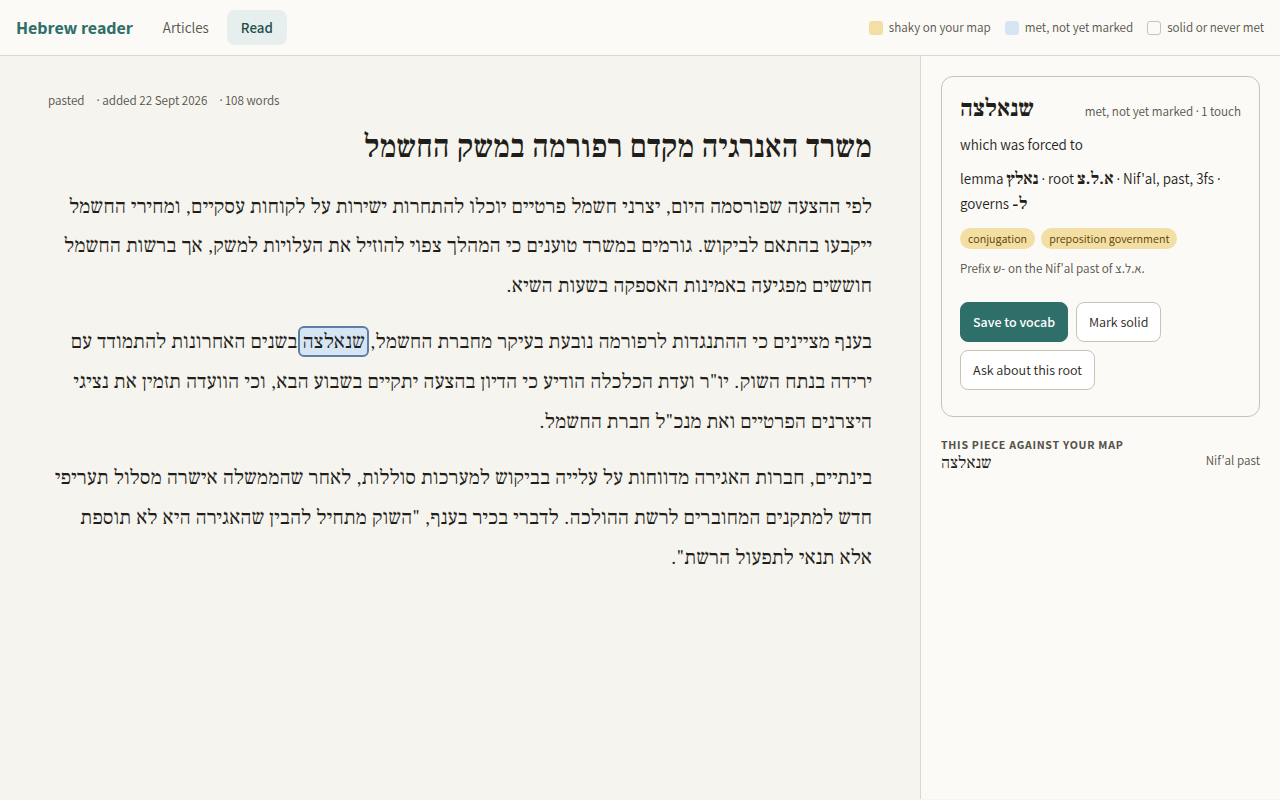
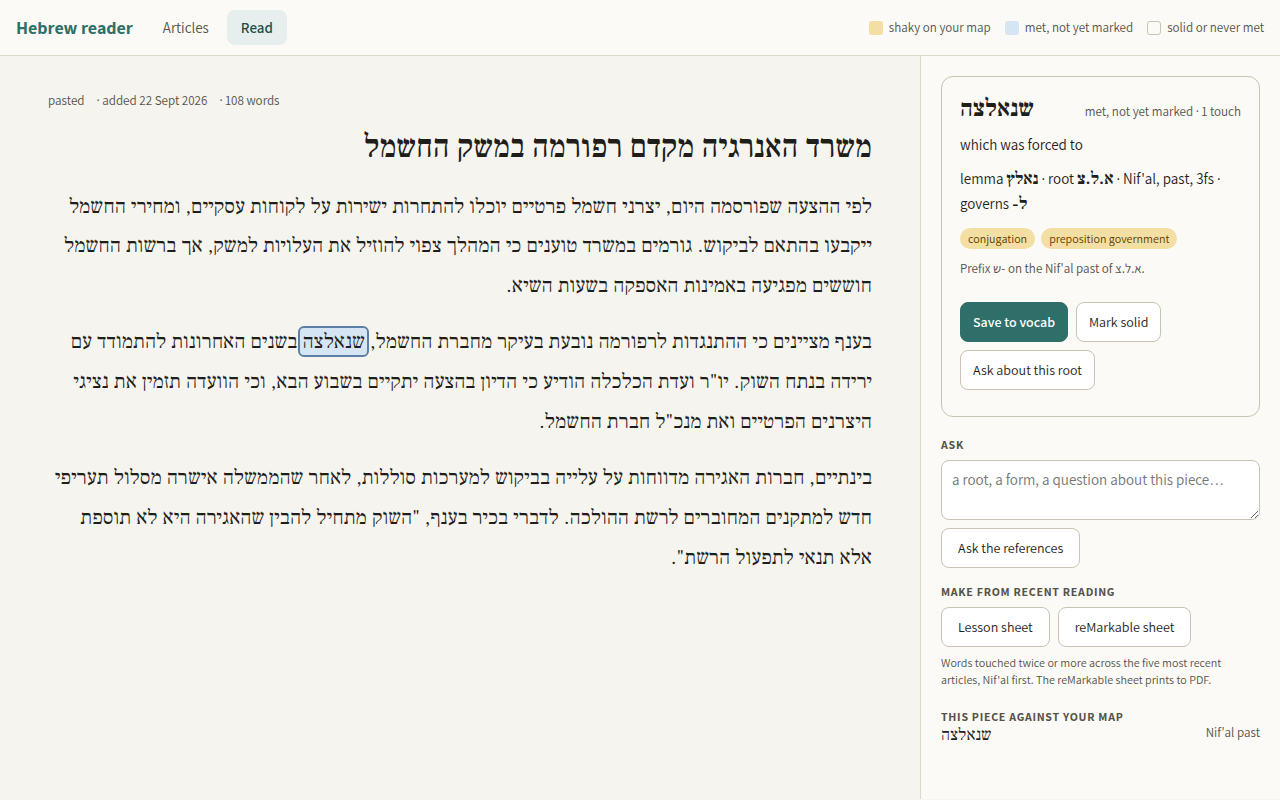
Lesson sheet from recent reading: GET /make/lesson (Markdown download, JSON), the print page sheet.html, buttons in the Ask column
- lib/lesson.js: every spot touched two or more times across the N most
  recent articles (default 5, 1–50), grouped Nif'al first, then other
  binyanim, then non-verbs, each with surfaces, root, binyan, meaning, one
  sentence it appeared in, status and touch count; the header names the
  articles by title and date; nothing qualifying -> one line
- /make/lesson?articles=N serves the Markdown as a download; &format=json
  feeds public/sheet.html, a print-clean page (no chrome, serif Hebrew, A4
  margins, a writing line under each word) for the reMarkable
- the reader's Ask column gains 'Lesson sheet' and 'reMarkable sheet'
- checks: 60 server checks and 40 page checks, including the ask answer's
  links, the sheet with qualifying spots (Nif'al first) and with none, and
  the print page at both viewports

Claude-Session: https://claude.ai/code/session_018GSL15piSMHokR83VZ6iLc

diff --git a/public/sheet.html b/public/sheet.html
@@ -1,0 +1,104 @@
+<!doctype html>
+<html lang="en">
+<head>
+<meta charset="utf-8">
+<meta name="viewport" content="width=device-width, initial-scale=1">
+<title>Lesson sheet — Hebrew reader</title>
+<link rel="preconnect" href="https://fonts.googleapis.com">
+<link rel="stylesheet" href="https://fonts.googleapis.com/css2?family=Assistant:wght@400;600;700&family=Frank+Ruhl+Libre:wght@400;500;700&display=swap">
+<style>
+  /* A print-clean sheet: no chrome, serif Hebrew, A4/Letter margins. */
+  @page { size: A4; margin: 18mm 16mm; }
+  :root { --text: #1f1e1a; --muted: #55524a; --line: #c9c3b4; --serif: 'Frank Ruhl Libre', 'David', 'Narkisim', 'Times New Roman', serif; --sans: 'Assistant', system-ui, sans-serif; }
+  * { box-sizing: border-box; }
+  html, body { margin: 0; background: #fff; color: var(--text); font-family: var(--sans); font-size: 12pt; }
+  .sheet { max-width: 180mm; margin: 0 auto; padding: 18mm 16mm; }
+  @media screen and (max-width: 600px) { .sheet { padding: 20px 16px; } }
+  h1 { font-size: 18pt; margin: 0 0 4pt; font-weight: 700; }
+  .articles { font-size: 10pt; color: var(--muted); margin: 0 0 6pt; line-height: 1.5; }
+  .articles .he { direction: rtl; unicode-bidi: isolate; font-family: var(--serif); font-size: 11.5pt; color: var(--text); }
+  .lead { font-size: 10.5pt; color: var(--muted); margin: 0 0 14pt; }
+  h2 { font-size: 11pt; text-transform: uppercase; letter-spacing: 0.06em; color: var(--muted); border-bottom: 1px solid var(--line); padding-bottom: 3pt; margin: 16pt 0 8pt; break-after: avoid; }
+  .item { display: grid; grid-template-columns: 1fr 1fr; gap: 4pt 14pt; padding: 6pt 0 8pt; border-bottom: 1px dotted var(--line); break-inside: avoid; }
+  .item .surfaces { grid-column: 1 / -1; direction: rtl; text-align: right; font-family: var(--serif); font-size: 17pt; font-weight: 700; line-height: 1.3; }
+  .item .grammar { font-size: 10.5pt; }
+  .item .meaning { font-size: 10.5pt; }
+  .item .sentence { grid-column: 1 / -1; direction: rtl; text-align: right; font-family: var(--serif); font-size: 12.5pt; line-height: 1.6; }
+  .item .from { grid-column: 1 / -1; font-size: 9pt; color: var(--muted); }
+  .item .from .he { direction: rtl; unicode-bidi: isolate; font-family: var(--serif); font-size: 10pt; }
+  .item .status { grid-column: 1 / -1; font-size: 9.5pt; color: var(--muted); }
+  .he { direction: rtl; unicode-bidi: isolate; font-family: var(--serif); font-size: 12pt; }
+  .none, .error { font-size: 11pt; margin: 0; }
+  .error { color: #8a3b2a; }
+  .write { grid-column: 1 / -1; height: 22pt; border-bottom: 1px solid var(--line); }
+  @media print { .write { height: 26pt; } }
+</style>
+</head>
+<body>
+<main class="sheet" id="sheet">
+  <h1>Lesson sheet</h1>
+  <p class="articles" id="articles"></p>
+  <p class="lead" id="lead"></p>
+  <div id="groups"></div>
+  <p class="none hidden" id="none"></p>
+  <p class="error" id="error"></p>
+</main>
+<script>
+'use strict';
+(async function () {
+  const $ = (s) => document.querySelector(s);
+  const n = new URLSearchParams(location.search).get('articles') || '';
+  const he = (t) => { const s = document.createElement('span'); s.className = 'he'; s.textContent = t; return s; };
+  let data;
+  try {
+    const res = await fetch(`/make/lesson?articles=${encodeURIComponent(n)}&format=json`, { headers: { accept: 'application/json' } });
+    if (res.status === 401) { location.href = '/login'; return; }
+    data = await res.json();
+    if (!res.ok) throw new Error(data.error || `The server answered ${res.status}.`);
+  } catch (e) {
+    $('#error').textContent = e.message;
+    return;
+  }
+  document.title = `Lesson sheet — ${data.articles.length} recent article${data.articles.length === 1 ? '' : 's'}`;
+  const arts = $('#articles');
+  if (!data.articles.length) arts.textContent = 'Articles: none stored yet.';
+  else {
+    arts.append(document.createTextNode(`From ${data.articles.length} recent article${data.articles.length === 1 ? '' : 's'}: `));
+    data.articles.forEach((a, i) => {
+      if (i) arts.append(document.createTextNode(' · '));
+      arts.append(he(a.title), document.createTextNode(` (${a.date})`));
+    });
+  }
+  if (!data.count) {
+    $('#lead').textContent = '';
+    $('#none').classList.remove('hidden');
+    $('#none').textContent = `Nothing qualifies: no word was touched ${data.min_touches} or more times across these articles.`;
+    return;
+  }
+  $('#lead').textContent = `Words touched ${data.min_touches} or more times, Nif'al first. A line under each to write the form.`;
+  const groups = $('#groups');
+  for (const g of data.groups) {
+    const h = document.createElement('h2'); h.textContent = g.title; groups.append(h);
+    for (const i of g.items) {
+      const it = document.createElement('section'); it.className = 'item';
+      const s = document.createElement('div'); s.className = 'surfaces'; s.textContent = i.surfaces.join(' · '); it.append(s);
+      const gr = document.createElement('div'); gr.className = 'grammar';
+      const bits = [];
+      if (i.lemma) bits.push(['lemma ', he(i.lemma)]);
+      if (i.root) bits.push(['root ', he(i.root)]);
+      if (i.binyan_label) bits.push([i.binyan_label]);
+      if (i.governs) bits.push(['governs ', he(i.governs)]);
+      bits.forEach((b, k) => { if (k) gr.append(document.createTextNode(' · ')); for (const x of b) gr.append(typeof x === 'string' ? document.createTextNode(x) : x); });
+      it.append(gr);
+      const m = document.createElement('div'); m.className = 'meaning'; m.textContent = i.meaning_en || '(no card on record)'; it.append(m);
+      const sen = document.createElement('div'); sen.className = 'sentence'; sen.textContent = i.sentence || '(no sentence on record)'; it.append(sen);
+      if (i.sentence_article) { const f = document.createElement('div'); f.className = 'from'; f.append(document.createTextNode('from '), he(i.sentence_article)); it.append(f); }
+      const st = document.createElement('div'); st.className = 'status'; st.textContent = `${i.status} · ${i.touches} touches`; it.append(st);
+      const w = document.createElement('div'); w.className = 'write'; it.append(w);
+      groups.append(it);
+    }
+  }
+})();
+</script>
+</body>
+</html>

diff --git a/lib/lesson.js b/lib/lesson.js
@@ -1,0 +1,108 @@
+'use strict';
+// A lesson sheet made from recent reading: every spot touched two or more
+// times across the N most recent articles, Nif'al first, then the other
+// binyanim, then non-verbs. Served as Markdown (a download) and as data for
+// the print page. Nothing qualifies -> one line saying so.
+
+const db = require('./db');
+const demand = require('./demand');
+
+const DEFAULT_ARTICLES = 5;
+const MAX_ARTICLES = 50;
+const MIN_TOUCHES = 2;
+
+function articleCount(raw) {
+  if (raw === undefined || raw === null || raw === '') return DEFAULT_ARTICLES;
+  const n = Number(raw);
+  if (!Number.isInteger(n) || n < 1 || n > MAX_ARTICLES) {
+    throw new db.ReaderError(400, `articles must be a whole number from 1 to ${MAX_ARTICLES}; got ${JSON.stringify(raw)}.`);
+  }
+  return n;
+}
+
+function groupOf(spot) {
+  if (spot.kind !== 'verb') return 2;
+  return spot.binyan === 'nifal' ? 0 : 1;
+}
+
+const GROUP_TITLES = ["Nif'al", 'Other binyanim', 'Not verbs'];
+
+function dateOf(iso) {
+  return new Date(iso).toLocaleDateString('en-GB', { day: 'numeric', month: 'short', year: 'numeric' });
+}
+
+// { articles: [{id,title,added_at}], groups: [{title, items}], state }
+function build(rawN) {
+  const n = articleCount(rawN);
+  const articles = db.recentArticles(n);
+  const ids = articles.map((a) => a.id);
+  const items = [];
+  for (const row of db.touchesAcross(ids)) {
+    if (row.touches < MIN_TOUCHES) continue;
+    const spot = db.getSpot(row.spot_id);
+    if (!spot) continue;
+    const surfaces = row.surfaces.split('\n').filter(Boolean);
+    let sentence = null, sentenceArticle = null, card = null;
+    for (const s of surfaces) {
+      for (const a of articles) {
+        const found = demand.findSurface(a.text, s);
+        if (found) { sentence = found.sentence; sentenceArticle = a.title; break; }
+      }
+      if (!card) card = db.cardForSurface(s, spot.id, null);
+      if (sentence && card) break;
+    }
+    items.push({
+      spot_id: spot.id, kind: spot.kind, group: groupOf(spot),
+      surfaces, root: spot.root, binyan: spot.binyan, lemma: spot.lemma,
+      binyan_label: spot.binyan ? (db.BINYAN_NAMES[spot.binyan] || spot.binyan) : null,
+      meaning_en: card ? card.meaning_en : null, governs: card ? card.governs : null,
+      sentence, sentence_article: sentenceArticle,
+      status: spot.status, touches: row.touches,
+    });
+  }
+  items.sort((a, b) => a.group - b.group || (a.binyan || '').localeCompare(b.binyan || '') || b.touches - a.touches || a.spot_id.localeCompare(b.spot_id));
+  const groups = GROUP_TITLES.map((title, g) => ({ title, items: items.filter((i) => i.group === g) })).filter((g) => g.items.length);
+  return {
+    articles: articles.map((a) => ({ id: a.id, title: a.title, added_at: a.added_at, date: dateOf(a.added_at) })),
+    asked_for: n,
+    min_touches: MIN_TOUCHES,
+    groups,
+    count: items.length,
+    state: items.length ? 'ok' : 'no data',
+    made_at: new Date().toISOString(),
+  };
+}
+
+function markdown(sheet) {
+  const lines = [];
+  const titles = sheet.articles.map((a) => `“${a.title}” (${a.date})`).join(', ');
+  lines.push(`# Lesson sheet — from ${sheet.articles.length} recent article${sheet.articles.length === 1 ? '' : 's'}`);
+  lines.push('');
+  lines.push(sheet.articles.length ? `Articles: ${titles}.` : 'Articles: none stored yet.');
+  lines.push('');
+  if (!sheet.count) {
+    lines.push(`Nothing qualifies: no word was touched ${sheet.min_touches} or more times across these articles.`);
+    return lines.join('\n') + '\n';
+  }
+  lines.push(`Words touched ${sheet.min_touches} or more times, Nif'al first.`);
+  for (const g of sheet.groups) {
+    lines.push('');
+    lines.push(`## ${g.title}`);
+    for (const i of g.items) {
+      lines.push('');
+      lines.push(`### ${i.surfaces.join(' · ')}`);
+      const bits = [];
+      if (i.lemma) bits.push(`lemma ${i.lemma}`);
+      if (i.root) bits.push(`root ${i.root}`);
+      if (i.binyan_label) bits.push(i.binyan_label);
+      if (i.governs) bits.push(`governs ${i.governs}`);
+      lines.push(`- ${bits.join(' · ')}`);
+      lines.push(`- meaning: ${i.meaning_en || '(no card on record)'}`);
+      lines.push(`- seen in: ${i.sentence ? `${i.sentence}` : '(no sentence on record)'}${i.sentence_article ? ` — ${i.sentence_article}` : ''}`);
+      lines.push(`- status: ${i.status} · touches: ${i.touches}`);
+    }
+  }
+  return lines.join('\n') + '\n';
+}
+
+module.exports = { build, markdown, articleCount, DEFAULT_ARTICLES, MAX_ARTICLES, MIN_TOUCHES };

diff --git a/server.js b/server.js
@@ -16,6 +16,7 @@ const lookup = require('./lib/lookup');
 const spine = require('./lib/spine');
 const demand = require('./lib/demand');
 const askRefs = require('./lib/ask');
+const lesson = require('./lib/lesson');
 const { CATEGORIES } = require('./lib/categories');
 const ratelimit = require('./lib/ratelimit');
 const { sendJson, sendHtml, redirect, readJson, serveStatic } = require('./lib/http');
@@ -137,6 +138,24 @@ route('POST', /^\/demand\/show$/, async (req, res) => sendJson(res, 200, await d
 // { question, article_id? } -> { answer, links, references, state }
 route('POST', /^\/ask$/, async (req, res) => sendJson(res, 200, await askRefs.ask(await readJson(req))));
 
+// --- make from recent reading -----------------------------------------------
+
+// ?articles=<N, default 5>: a Markdown download of every spot touched two or
+// more times across the N most recent articles; &format=json for the print page.
+route('GET', /^\/make\/lesson$/, (req, res, g, url) => {
+  const sheet = lesson.build(url.searchParams.get('articles'));
+  if (url.searchParams.get('format') === 'json') return sendJson(res, 200, sheet);
+  const md = lesson.markdown(sheet);
+  const day = sheet.made_at.slice(0, 10);
+  res.writeHead(200, {
+    'content-type': 'text/markdown; charset=utf-8',
+    'content-disposition': `attachment; filename="lesson-sheet-${day}.md"`,
+    'cache-control': 'no-store',
+  });
+  res.end(md);
+  console.log(`lesson: ${sheet.count} word(s) from ${sheet.articles.length} article(s), as markdown`);
+});
+
 // --- articles ---------------------------------------------------------------
 
 route('GET', /^\/articles$/, (req, res) => sendJson(res, 200, db.listArticles()));
@@ -159,7 +178,7 @@ route('POST', /^\/articles$/, async (req, res) => {
 });
 
 function isApiPath(p) {
-  return /^\/(articles|lookup|spots|marks-for-article|categories|demand|ask)(\/|$)/.test(p);
+  return /^\/(articles|lookup|spots|marks-for-article|categories|demand|ask|make)(\/|$)/.test(p);
 }
 
 async function handle(req, res) {

diff --git a/lib/db.js b/lib/db.js
@@ -239,6 +239,22 @@ function putTranslation({ hash, gapped, translation }) {
     .run(hash, gapped, translation, now());
 }
 
+// --- the lesson sheet -------------------------------------------------------
+
+function recentArticles(n) {
+  return db.prepare('SELECT id, title, added_at, text FROM articles ORDER BY id DESC LIMIT ?').all(n);
+}
+
+// Touch counts per spot across the given articles, with the distinct
+// surfaces seen (newline-joined), most touched first.
+function touchesAcross(articleIds) {
+  if (!articleIds.length) return [];
+  const marks = articleIds.map(() => '?').join(',');
+  return db.prepare(`SELECT spot_id, COUNT(*) AS touches, GROUP_CONCAT(DISTINCT surface) AS surfaces
+                     FROM touches WHERE article_id IN (${marks}) GROUP BY spot_id ORDER BY touches DESC, spot_id ASC`)
+    .all(...articleIds).map((r) => ({ ...r, surfaces: String(r.surfaces || '').split(',').join('\n') }));
+}
+
 // --- the map against an article --------------------------------------------
 
 const BINYAN_NAMES = { paal: "Pa'al", nifal: "Nif'al", piel: "Pi'el", pual: "Pu'al", hifil: "Hif'il", hufal: "Huf'al", hitpael: "Hitpa'el" };
@@ -270,4 +286,5 @@ module.exports = {
   getSpot, requireSpot, ensureSpot, setSpotStatus, setOnSpine, listSpots, checkStatus,
   addTouch, articleTouches, lastArticleTitle, marksForSurfaces, cardHint, BINYAN_NAMES,
   demandCandidates, cardForSurface, getTranslation, putTranslation,
+  recentArticles, touchesAcross,
 };

diff --git a/public/app.css b/public/app.css
@@ -108,6 +108,9 @@ h1.headline { margin: 0; direction: rtl; text-align: right; font-family: var(--s
 .ask-answer .links { margin: 8px 0 0; padding: 0; list-style: none; display: flex; flex-direction: column; gap: 4px; font-size: 13px; }
 .ask-answer .links .claim { color: var(--muted); }
 .ask-answer .links .term { direction: rtl; unicode-bidi: isolate; font-family: var(--serif); font-size: 15px; }
+.ask .make-title { margin-top: 8px; }
+.ask .make .btn { display: inline-flex; align-items: center; text-decoration: none; color: var(--text); }
+.ask .caption { margin: 0; font-size: 12px; color: var(--muted); line-height: 1.4; }
 
 /* the card */
 .card { background: var(--panel); border: 1px solid var(--line-strong); border-radius: 12px; padding: 16px 18px; display: flex; flex-direction: column; gap: 10px; }

diff --git a/public/read.html b/public/read.html
@@ -54,6 +54,12 @@
         <p class="answer" id="ask-text"></p>
         <ul class="links" id="ask-links"></ul>
       </div>
+      <h2 class="make-title">Make from recent reading</h2>
+      <div class="row make">
+        <a class="btn" id="make-lesson" href="/make/lesson?articles=5" download>Lesson sheet</a>
+        <a class="btn" id="make-sheet" href="/sheet.html?articles=5" target="_blank" rel="noopener">reMarkable sheet</a>
+      </div>
+      <p class="caption">Words touched twice or more across the five most recent articles, Nif'al first. The reMarkable sheet prints to PDF.</p>
     </section>
     <section>
       <h2>This piece against your map</h2>
